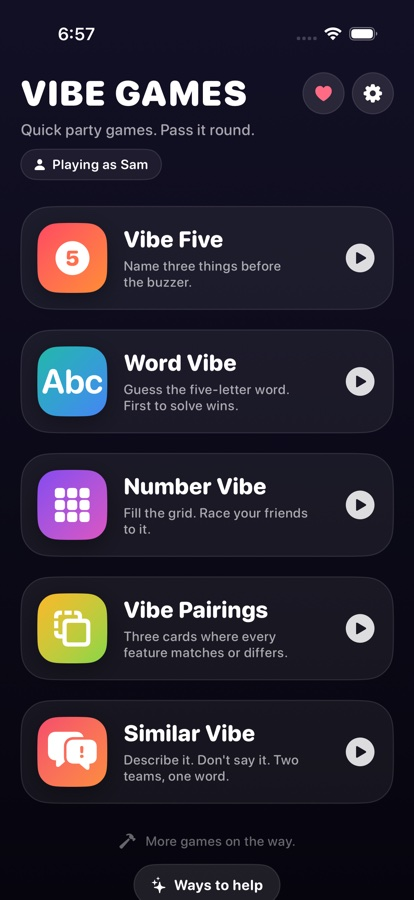
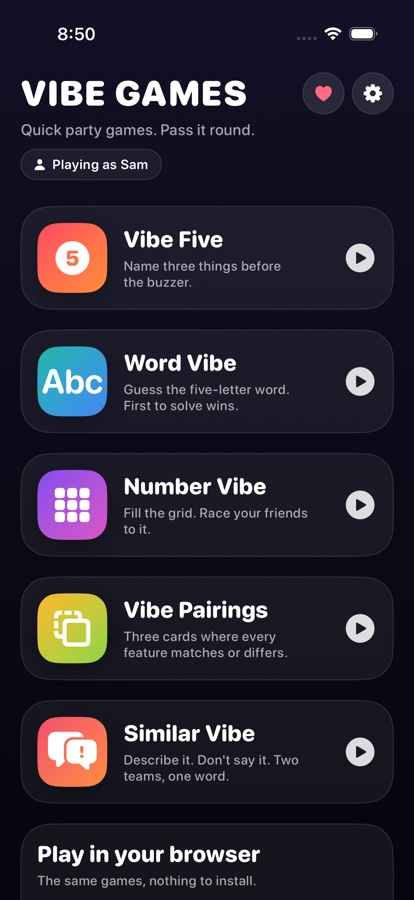
Refresh the hub screenshots for the browser card
The hub gained the "Play in your browser" card, so both landing-page pictures
and both App Store hub shots were a screen out of date. `?v=` goes to 6 for the
two the page uses.

Checked: 414x900 for the site, 1320x2868 and 2064x2752 for the store, and the
live URLs return the new bytes.

Changed region(s): [[0.087, 0.9022, 0.6377, 0.9956], [0.1449, 0.0311, 0.2319, 0.0622]]

diff --git a/site/index.html b/site/index.html
@@ -176,7 +176,7 @@
 
     <div class="hero__device">
       <div class="phone phone--float">
-        <picture><source srcset="assets/screens/hub-dark.jpg?v=5" media="(prefers-color-scheme: dark)" /><img src="assets/screens/hub-light.jpg?v=5" alt="The Vibe Games home screen, listing the games" width="414" height="900" loading="eager" fetchpriority="high" /></picture>
+        <picture><source srcset="assets/screens/hub-dark.jpg?v=6" media="(prefers-color-scheme: dark)" /><img src="assets/screens/hub-light.jpg?v=6" alt="The Vibe Games home screen, listing the games" width="414" height="900" loading="eager" fetchpriority="high" /></picture>
       </div>
     </div>
   </div>
